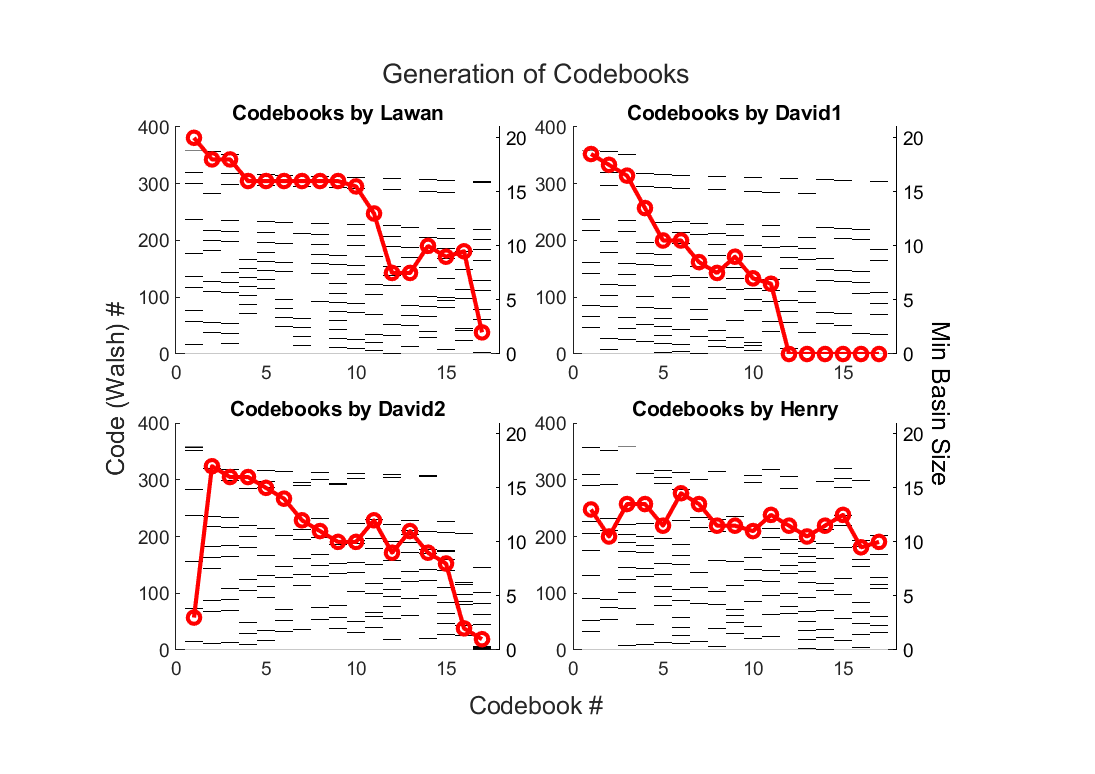
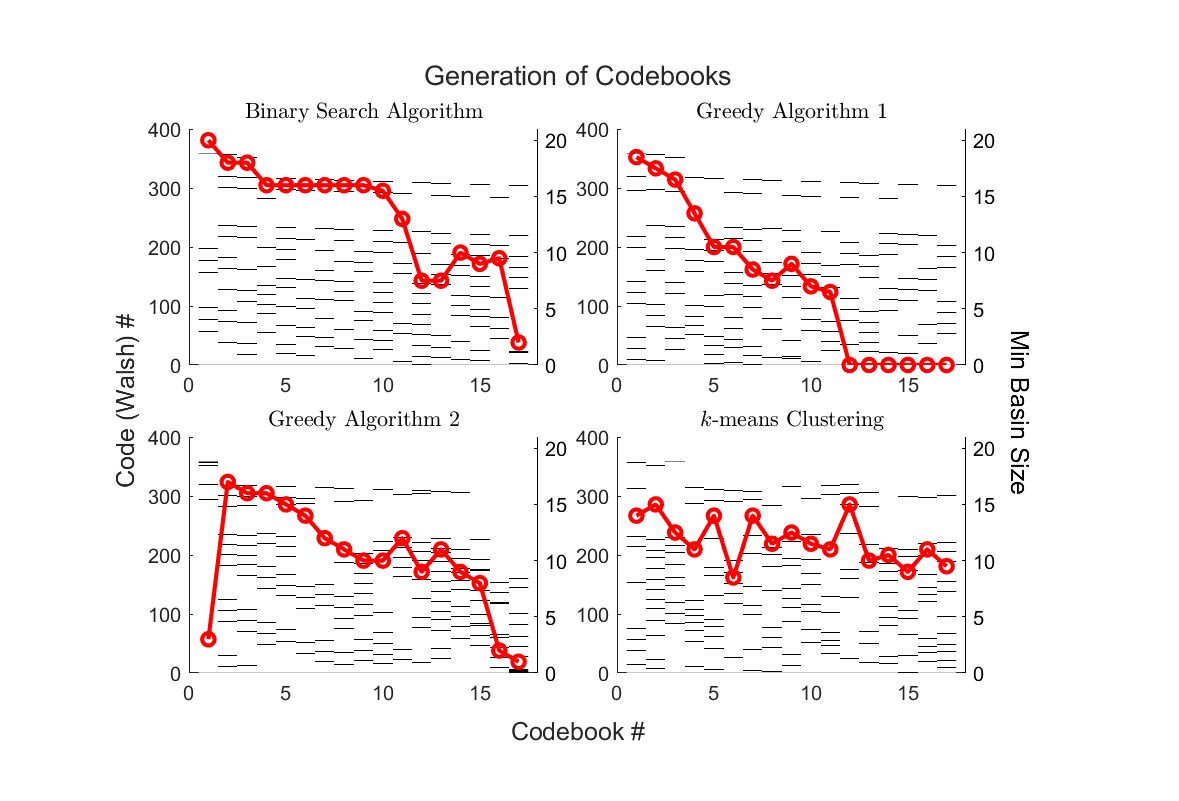
Updated figure generation

diff --git a/codes/adam/adam_raw_process.m b/codes/adam/adam_raw_process.m
@@ -17,7 +17,10 @@ faithful_set = find(faithful_fine);
 
 % Collection algorithms to test
 algos = {@lawan5_best @david1_best @david2_best @henry1_best};
-algo_titles = ["Lawan" "David1" "David2" "Henry"];
+algo_titles = ["Binary Search Algorithm",...
+               "Greedy Algorithm 1",...
+               "Greedy Algorithm 2",...
+               '$k$-means Clustering'];
 
 % Instantiate figure for visualization
 algo_comparison = figure(6);
@@ -71,7 +74,8 @@ for k = 1:4
     plot(ax(k),x,minbs,'r-o','LineWidth',2)
 
     % Title current algorithm
-    title(ax(k),sprintf("Codebooks by %s",algo_titles(k)))
+    title(ax(k),sprintf(algo_titles(k)),...
+                        'Interpreter', 'latex')
 
 end
 

diff --git a/codes/adam/david_best.m b/codes/adam/david_best.m
@@ -1,9 +1,10 @@
 function greedy = david_best(feasible,w)
 % DAVID_BEST generates a codebook from given a given feasible set using two
 % different algorithms. Everything below this comment block was taken
-% directly from David's Github branch on 6/28/26 and has not been modified.
+% directly from David's Github branch on 9/03/26 and has not been
+% modified.
 %
-%last updated 06/28/2026 by Adam Petrucci
+%last updated 09/03/2026 by Adam Petrucci
 
 % This function computes the codeset using two different greedy algorithms.
 
